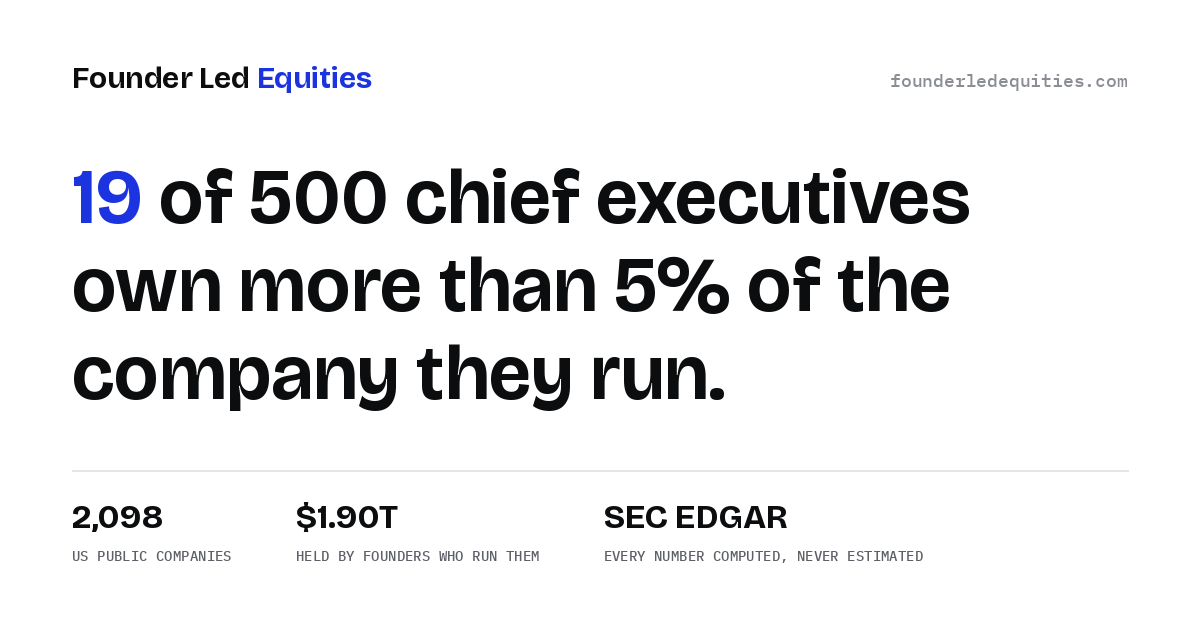
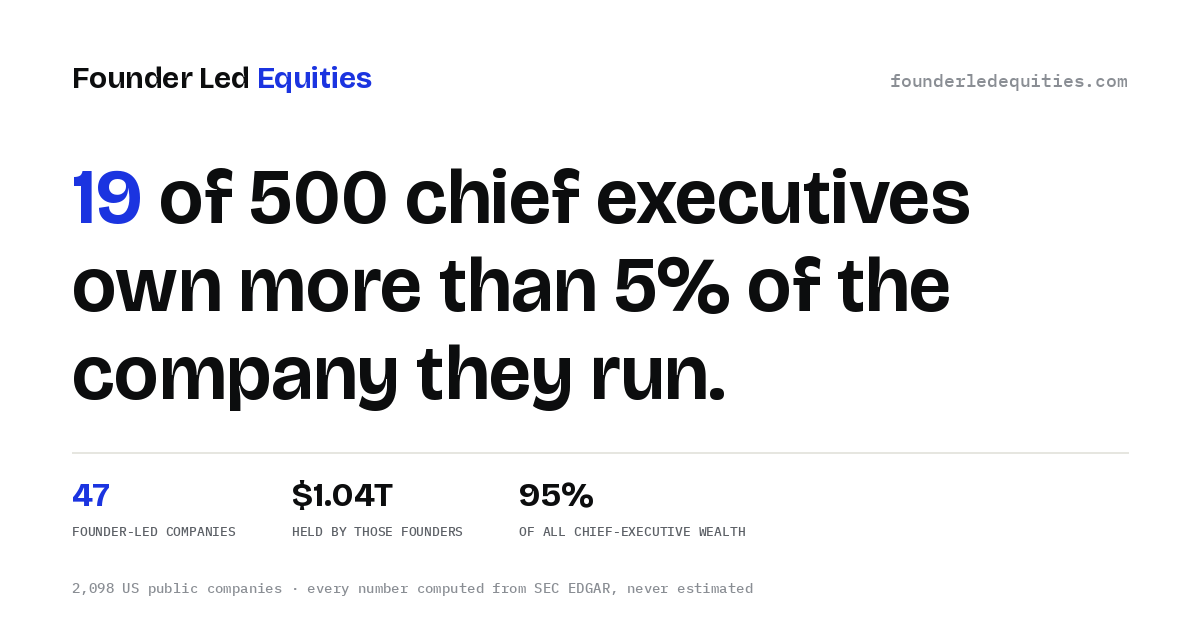
The card carries the hero's own strip, by the hero's own rules

diff --git a/ops/og_image.py b/ops/og_image.py
@@ -35,8 +35,10 @@ def numbers(panel_p, sp_p, prices_p, founders_p):
                 founders.add(r["ticker"].upper())
     except OSError:
         pass
-    total = open_n = above5 = 0
-    founder_value = 0.0
+    # THE HERO'S OWN STRIP, BY THE HERO'S OWN RULES: everything over the
+    # open (S&P) set, so the card says exactly what a visitor then sees.
+    total = open_n = above5 = led = 0
+    led_value = all_value = 0.0
     for r in csv.DictReader(open(panel_p, encoding="utf-8-sig")):
         t = (r.get("ticker") or "").upper()
         try:
@@ -45,23 +47,32 @@ def numbers(panel_p, sp_p, prices_p, founders_p):
         except ValueError:
             continue
         total += 1
-        if t in sp:
-            open_n += 1
-            if pct > 5:
-                above5 += 1
-        # the free hero's figure: founders in the open (S&P) set, so the card
-        # says the number a visitor then sees, not a larger one they cannot
-        if t in sp and t in founders and t in prices:
-            founder_value += sh * prices[t]
-    return dict(total=total, open=open_n, above5=above5, founder_value=founder_value)
+        if t not in sp:
+            continue
+        open_n += 1
+        if pct > 5:
+            above5 += 1
+        val = sh * prices[t] if t in prices else 0.0
+        all_value += val
+        if t in founders:
+            led += 1
+            led_value += val
+    return dict(total=total, open=open_n, above5=above5, led=led,
+                led_value=led_value, share=round(100 * led_value / all_value) if all_value else 0)
 
 
 def money(v):
-    if v >= 1e12:
-        return f"${v/1e12:.2f}T"
-    if v >= 1e9:
-        return f"${v/1e9:.0f}B"
-    return f"${v/1e6:.0f}M"
+    """The page's money(): $1.03T, $27.3B, $903M -- same rounding, so the
+    card and the hero never disagree by a cent of formatting."""
+    for div, suf, dp in ((1e12, "T", 2), (1e9, "B", 1), (1e6, "M", 1)):
+        if v < div * 0.9995:
+            continue
+        x = v / div
+        s = f"{x:.0f}" if x >= 100 else f"{x:.{dp}f}"
+        if float(s) >= 1000 and div < 1e12:
+            continue
+        return "$" + s.rstrip("0").rstrip(".") + suf
+    return f"${v:,.0f}"
 
 
 def draw(n, out, fonts_dir):
@@ -103,16 +114,19 @@ def draw(n, out, fonts_dir):
     d.text((72, y + 88), "own more than 5% of the", font=big, fill=INK)
     d.text((72, y + 176), "company they run.", font=big, fill=INK)
 
-    # the strip of facts
-    d.line((72, 470, W - 72, 470), fill=LINE, width=2)
-    facts = [(f"{n['total']:,}", "US public companies"),
-             (money(n["founder_value"]), "held by founders who run them"),
-             ("SEC EDGAR", "every number computed, never estimated")]
+    # the hero's stat strip, the same three numbers in the same order
+    d.line((72, 452, W - 72, 452), fill=LINE, width=2)
+    facts = [(f"{n['led']}", "Founder-led companies", BLUE),
+             (money(n["led_value"]), "Held by those founders", INK),
+             (f"{n['share']}%", "Of all chief-executive wealth", INK)]
     x = 72
-    for val, lab in facts:
-        d.text((x, 496), val, font=disp(34, 700), fill=INK)
-        d.text((x, 546), lab.upper(), font=mono(14), fill=MUT)
-        x += max(d.textlength(val, font=disp(34, 700)), d.textlength(lab.upper(), font=mono(14))) + 64
+    for val, lab, col in facts:
+        d.text((x, 474), val, font=disp(34, 700), fill=col)
+        d.text((x, 522), lab.upper(), font=mono(13), fill=MUT)
+        x += max(d.textlength(val, font=disp(34, 700)), d.textlength(lab.upper(), font=mono(13))) + 56
+    # the footer: how much is measured, and where it comes from
+    d.text((72, 578), f"{n['total']:,} US public companies · every number computed from SEC EDGAR, never estimated",
+           font=mono(14), fill=FAINT)
     im.save(out, "PNG", optimize=True)
     return out
 
@@ -126,8 +140,8 @@ def main(panel_p, sp_p, prices_p, founders_p, out):
     except Exception as exc:  # noqa: BLE001 - never fail a deploy over a picture
         print(f"  og image: not drawn ({exc.__class__.__name__}: {exc}); keeping the existing one")
         return 0
-    print(f"  og image: {n['above5']} of {n['open']} above 5%, {n['total']:,} companies, "
-          f"{money(n['founder_value'])} founder-held -> {out}")
+    print(f"  og image: {n['above5']} of {n['open']} above 5%; {n['led']} founder-led, "
+          f"{money(n['led_value'])}, {n['share']}% of the wealth; {n['total']:,} companies -> {out}")
     return 0
 
 
